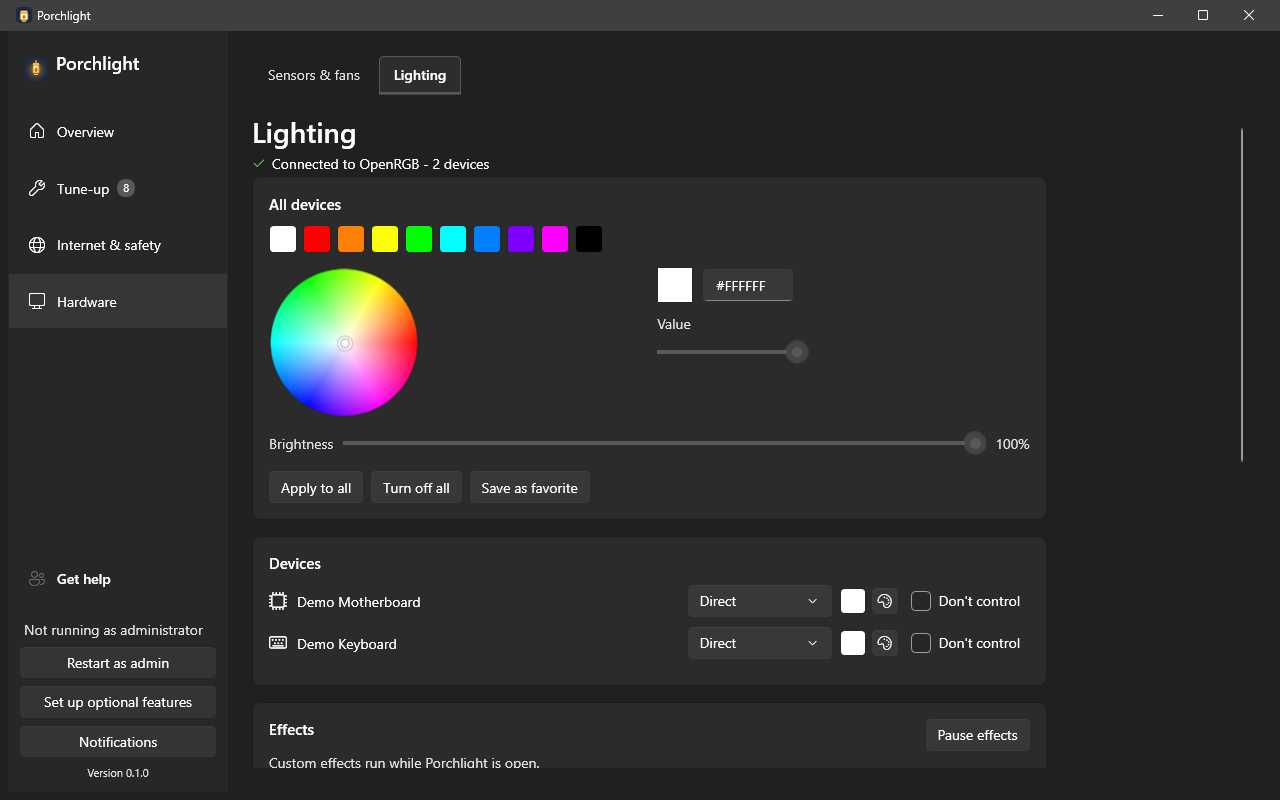
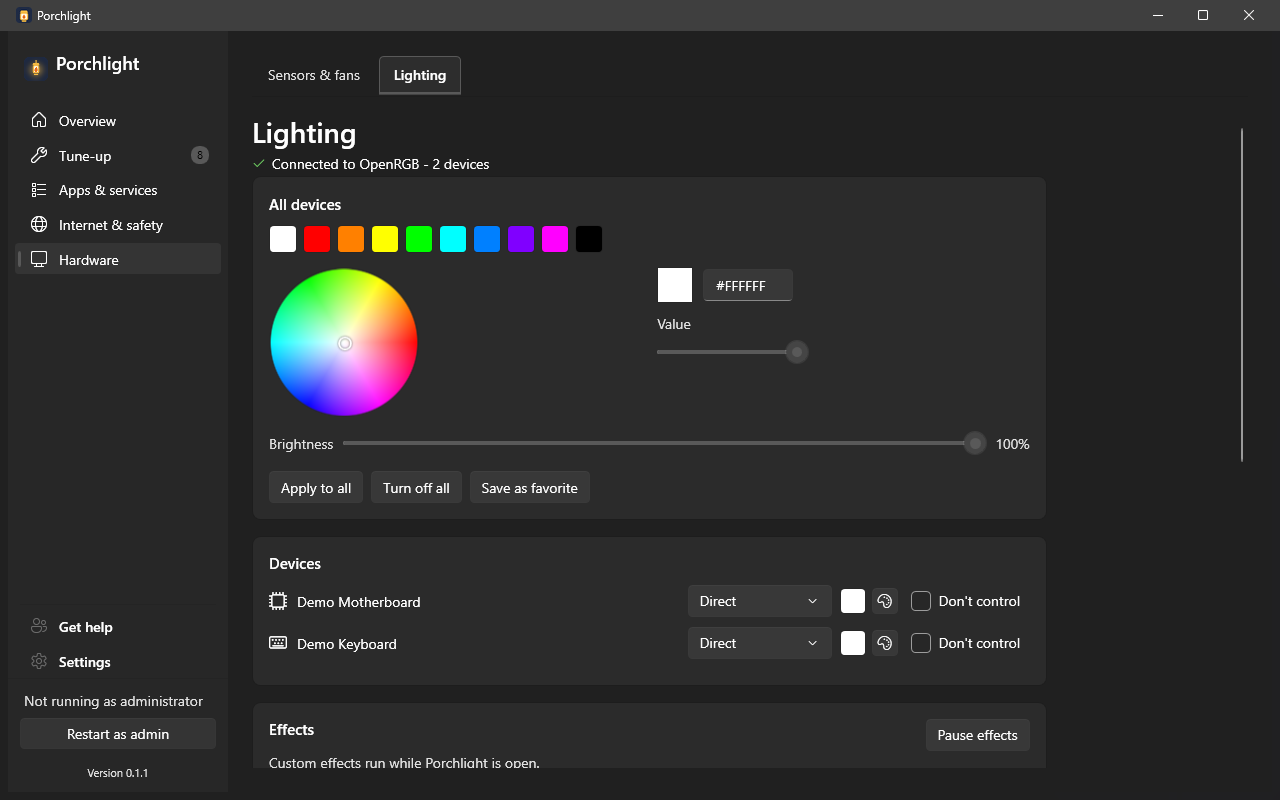
docs: guides, screenshots and changelog for Apps & services, update history and startup impact
New page guides for Get apps, Running apps and Services; Updates and
Startup apps guides cover history, impact and logon tasks. README tour,
FEATURES, CHANGELOG, ROADMAP and CONTRIBUTING updated. All screenshots
retaken in DEBUG demo mode with the new navigation rail.

diff --git a/docs/FEATURES.md b/docs/FEATURES.md
@@ -2,7 +2,7 @@
 
 A technical reference of what Porchlight does. For a friendlier walk through each page, see the [page guides](../README.md#pages).
 
-- App shell with a navigation rail of six entries - Overview, Tune-up (Updates, Startup apps, Free up space, Health check), Internet & safety (Internet, Browser add-ons),
+- App shell with a navigation rail of seven entries - Overview, Tune-up (Updates, Startup apps, Free up space, Health check), Apps & services (Get apps, Running apps, Services), Internet & safety (Internet, Browser add-ons),
   Hardware (Sensors & fans, Lighting) Get help (Get help, Web console) and Settings (General, Notifications, Optional features; both of the last two are pinned at the bottom) - with a tab row above the page for categories that hold more than one, following
   Windows light/dark theme, with the app version shown in the sidebar footer.
 - Browser add-ons page: read-only list of the add-ons installed in Edge, Chrome, Brave and Firefox
@@ -103,8 +103,13 @@ A technical reference of what Porchlight does. For a friendlier walk through eac
   "What is this?" line, and marks Windows/Microsoft items and Porchlight's own tools (AnyDesk,
   OpenRGB) as "Recommended to keep". Turn items off and on exactly like Task Manager (the
   `StartupApproved` value): nothing is ever deleted, so it is always reversible, and no startup
-  program is ever launched. Items for all users need administrator rights. No startup-impact rating
-  and no scheduled tasks are shown (see `specs/13-startup-apps.md`).
+  program is ever launched. Items for all users need administrator rights (see `specs/13-startup-apps.md`).
+  Each item shows a High / Medium / Low startup impact from Windows' own StartupInfo measurements
+  (Task Manager's thresholds: more than 1 s CPU or 3 MB disk is high, under 300 ms and 300 KB is low),
+  with "Sort by impact"; reading them needs administrator rights, otherwise items show "Not measured".
+  Scheduled tasks with a logon trigger (outside `\Microsoft\Windows\`, and not Porchlight's own) are
+  listed as "Scheduled task" items and turned off/on through the task's Enabled flag only
+  (see `specs/30-startup-impact-and-tasks.md`).
 - Health check: a plain-language page with five cards - disk health (per physical disk: Healthy /
   Warning - back up your files soon / Unknown, from Windows' storage and failure-prediction data);
   Windows repair (`sfc /scannow`, then `DISM /RestoreHealth` offered only if SFC couldn't fix everything;
@@ -141,3 +146,21 @@ A technical reference of what Porchlight does. For a friendlier walk through eac
   new key any time to lock out old links). Off by default; port 8765 unless you pick another. Use it
   on your home network, or through a VPN such as Tailscale when away - don't forward the port on
   your router. See `specs/21-web-console.md`.
+- Update history (Updates page): every update, reinstall and install run from Porchlight (including
+  Get apps) is logged with the version change, action, result and time, and shown grouped by day
+  behind a "History" button, with "Clear history". Stored in its own `update-history.json` (last 500
+  entries, atomic writes, a corrupt file is set aside instead of crashing). See `specs/26-update-history.md`.
+- Get apps: searches the `winget` community catalog (`winget search --source winget`), marks apps
+  that are already installed, and installs one app at a time with live progress and a plain-language
+  result; a curated "Popular apps" list shows while the search box is empty. Only ids from the
+  current results can be installed, and a running install is never cancelled. See `specs/27-get-apps.md`.
+- Running apps: live list of running programs grouped by executable (Apps / Background / Windows),
+  with CPU % and memory, refreshed every 2 s only while the page is shown, a filter and sorting.
+  "End task" asks first, refuses Windows and critical processes and Porchlight itself, and checks
+  each process's start time so a reused process id is never ended; "Open file location" selects the
+  file in Explorer. See `specs/28-running-apps.md`.
+- Services: lists services from other apps (Windows' own are hidden by default and read-only) with
+  plain descriptions, publisher, status and start type, and can start, stop, restart or change the
+  start type of third-party services when running as administrator. Driver services and Microsoft
+  services are never changed; stopping a service with running dependents is refused. See
+  `specs/29-windows-services.md`.

diff --git a/docs/pages/startup-apps.md b/docs/pages/startup-apps.md
@@ -2,23 +2,32 @@
 
 **Where to find it:** Tune-up > Startup apps.
 
-These are the programs that start by themselves when you sign in to Windows. Too many of them makes a PC slow to start. This page lists them in plain language and lets you turn each one off (or back on). Turning one off does not uninstall it, and you can turn it back on here at any time.
+These are the programs that start by themselves when you sign in to Windows. Too many of them makes a PC slow to start. This page lists them in plain language, shows how much each one slows the start down, and lets you turn each one off (or back on). Turning one off does not uninstall it, and you can turn it back on here at any time.
+
+![Startup apps page listing programs with their publisher, impact, a hint and On/Off status with Turn off buttons](../screenshots/startup-apps.png)
+
+*(Screenshot uses made-up demo data, not a real PC.)*
 
 ## What's on the page
 
 - **Introduction** - a reminder that nothing is removed.
-- **Summary line and Refresh** - how many programs start automatically, and a button to re-read the list.
+- **Summary line and Refresh** - how many programs start automatically, how many have a high impact, and a button to re-read the list.
+- **Sort by impact** - puts the programs that slow the start down most at the top.
+- **Impact note** - Windows keeps the startup measurements in a protected folder. When Porchlight isn't running as administrator, every program shows "Not measured" and one line offers **Restart as administrator** to see them.
 - **Administrator banner** - shown when Porchlight is not running as administrator. Some startup entries (those that apply to every user of the PC) can only be changed with admin rights; use **Restart as admin** in the left menu.
 - **Message / error line** - confirmation after you change something, or a note if a change did not work.
 - **Empty state** - "Nothing starts automatically. Your PC should start quickly." when the list is empty.
 
+Porchlight's own "start when I sign in" task is not listed here; use **Settings > General** for it.
+
 ## Each program in the list
 
-- **Name**, with the **publisher** and who it starts for: **Your account** (just you) or **All users** (everyone who signs in to this PC).
+- **Name**, with the **publisher** and where it comes from: **Your account** (just you), **All users** (everyone who signs in to this PC) or **Scheduled task** (a task in Windows' Task Scheduler that runs when you sign in).
+- **Impact** - **High**, **Medium** or **Low impact**, from Windows' own measurements of recent starts, using the same rules as Task Manager: high means more than 1 second of processor time or more than 3 MB read from or written to disk while the PC starts; low means under 0.3 seconds and under 300 KB. **Not measured** means Windows has no data for it (or Porchlight can't read it - see above).
 - **A hint** - a short plain-language note about what the program is.
 - **Recommended to keep** - a green tick on things Porchlight thinks you should leave on (for example security software).
 - **Status** - whether it currently starts with Windows.
-- **Turn off / Turn on button** - switches it. It is greyed out when it cannot be changed.
+- **Turn off / Turn on button** - switches it. It is greyed out when it cannot be changed. For a scheduled task, this turns the task off in Task Scheduler (the same as its Disable option); the task itself is kept.
 - **Needs administrator** - shown under the button when changing that entry requires admin rights.
 
 ---

diff --git a/docs/pages/get-apps.md b/docs/pages/get-apps.md
@@ -1,0 +1,42 @@
+# Get apps
+
+**Where to find it:** Apps & services > Get apps.
+
+Installing a program usually means a web search and a download page full of look-alike "Download"
+buttons - an easy way to end up with the wrong thing. Get apps installs programs straight from the
+official Windows package catalog (`winget`), so there is nothing to download by hand.
+
+![Get apps page with a search box and a list of popular apps, each with an Install button](../screenshots/get-apps.png)
+
+*(Screenshot uses made-up demo data, not a real PC.)*
+
+## What's on the page
+
+- **Search box and Search button** - type at least two letters of the program's name and press
+  **Enter** or **Search**. Searching takes a few seconds; a progress bar shows while it runs.
+- **Popular apps** - shown while the search box is empty: a short list of well-known programs
+  (Chrome, Firefox, VLC, 7-Zip, Zoom, Spotify, Adobe Acrobat Reader, Notepad++, Discord).
+- **Results** - up to 50 matches, each with its name, version and catalog ID.
+- **Message line** - how many apps were found, "No apps found..." with a tip, or a plain note if
+  `winget` isn't available on this PC.
+
+## Each app in the list
+
+- **Install** - installs the app. Only one app installs at a time; the other Install buttons wait
+  until it finishes. A line under the app shows what the installer is doing.
+- **Installed** - shown instead of the button when the app is already on the PC.
+- **Result** - "Installed", "Installed. Restart your PC to finish.", or a plain sentence saying
+  what went wrong and what to try next.
+
+Some installers show their own window or ask for administrator approval (a Windows prompt). If
+**Silent install** is ticked on the Updates page, installers run without their own window where
+they can. An install that has started is never stopped half way; if you try to close Porchlight
+during one, it warns you first.
+
+Every finished install also appears in the Updates page's [history](updates.md#update-history).
+
+Only the community `winget` catalog is searched - not the Microsoft Store.
+
+---
+
+[Back to the page list](../../README.md#pages)

diff --git a/README.md b/README.md
@@ -22,6 +22,14 @@ Screenshots use made-up demo data, not a real PC.
 
 ![Updates page listing programs with newer versions, with checkboxes and an Update selected button](docs/screenshots/updates.png)
 
+**Apps & services > Running apps** - what's slowing it down right now?
+
+![Running apps page listing programs grouped into Apps and Background with their CPU and memory use and an End task button](docs/screenshots/running-apps.png)
+
+**Apps & services > Get apps** - install a program safely, without hunting for a download page.
+
+![Get apps page with a search box and popular apps, each with an Install button](docs/screenshots/get-apps.png)
+
 **Hardware > Sensors & fans** - is it running hot?
 
 ![Hardware page with temperature, power and fan tiles above collapsed cards for each part](docs/screenshots/hardware.png)
@@ -38,10 +46,15 @@ Each link opens a guide that explains everything on that page.
 - [Dashboard](docs/pages/dashboard.md) - live stats, drive space, busiest programs.
 
 **Tune-up**
-- [Updates](docs/pages/updates.md) - see and install program updates.
-- [Startup apps](docs/pages/startup-apps.md) - choose what starts with Windows.
+- [Updates](docs/pages/updates.md) - see and install program updates, and look back at what was updated.
+- [Startup apps](docs/pages/startup-apps.md) - see what slows down sign-in and choose what starts with Windows.
 - [Free up space](docs/pages/free-up-space.md) - clear leftovers and find what fills a drive.
 - [Health check](docs/pages/health-check.md) - disk and battery health, Windows repair, recent problems.
+
+**Apps & services**
+- [Get apps](docs/pages/get-apps.md) - search for a program and install it from the official catalog.
+- [Running apps](docs/pages/running-apps.md) - what's running, how much it uses, and close a stuck program.
+- [Services](docs/pages/services.md) - background helpers that other programs installed; stop or turn off the ones you don't need.
 
 **Internet & safety**
 - [Internet](docs/pages/internet.md) - connection details, "fix my internet", speed test.

diff --git a/docs/pages/services.md b/docs/pages/services.md
@@ -1,0 +1,38 @@
+# Services
+
+**Where to find it:** Apps & services > Services.
+
+Many programs install a *service* - a helper that runs in the background all the time, for example
+to check for updates or sync files. This page explains each one in plain words and lets you stop or
+turn off the ones that came with other programs, without letting you break Windows.
+
+![Services page listing services from other apps with their publisher, description, status and start options, below an administrator banner](../screenshots/services.png)
+
+*(Screenshot uses made-up demo data, not a real PC.)*
+
+## What's on the page
+
+- **Summary line and Refresh** - how many services from other apps there are and how many are running.
+- **Filter** - search by name, publisher or description.
+- **Show Windows services** - also lists Windows' own services. They are shown for information only
+  and can't be changed here.
+- **Administrator banner** - changing a service needs administrator rights. When Porchlight isn't
+  running as administrator, the buttons are greyed out and the banner offers **Restart as administrator**.
+
+## Each service
+
+- **Name**, **publisher** and a one-line **description**.
+- **Status** - Running, Stopped, Starting... or Stopping..., shown with an icon and a word.
+- **Start option** - when the service starts:
+  - **Starts with Windows** - every time the PC starts.
+  - **Starts when needed** - only when a program asks for it.
+  - **Turned off** - never.
+- **Start**, **Stop** and **Restart** buttons.
+
+Stopping a service or turning it off asks first, because the program that installed it may not work
+properly until you turn it back on. A service that other services depend on can't be stopped here;
+the page names the services that need it.
+
+---
+
+[Back to the page list](../../README.md#pages)

diff --git a/docs/pages/running-apps.md b/docs/pages/running-apps.md
@@ -1,0 +1,40 @@
+# Running apps
+
+**Where to find it:** Apps & services > Running apps.
+
+"Why is my PC slow?" This page shows what is running right now and how much of the PC each program
+uses, and lets you close a program that has stopped responding.
+
+![Running apps page listing programs grouped into Apps and Background, each with CPU and memory use and End task and Open file location buttons](../screenshots/running-apps.png)
+
+*(Screenshot uses made-up demo data, not a real PC.)*
+
+## What's on the page
+
+- **Summary line** - total CPU and memory in use, e.g. "CPU 23% · Memory 9.4 GB of 16 GB in use".
+- **Filter** - type part of a program's name to narrow the list.
+- **Sort by** - CPU (the default), memory or name.
+- The list refreshes every 2 seconds while you are on this page, and stops when you leave it.
+
+## The list
+
+Programs are grouped the way Task Manager does: a program with many parts (a web browser often has
+a dozen) is one row, with the number of parts in brackets and their CPU and memory added together.
+The rows are in three sections:
+
+- **Apps** - programs with a window open.
+- **Background** - programs running without a window (sync tools, updaters, helpers).
+- **Windows** - parts of Windows itself. This section starts collapsed.
+
+Each row has:
+
+- **CPU** and **memory** use.
+- **Open file location** - opens File Explorer with the program's file selected.
+- **End task** - closes the program after asking first ("Unsaved work in it will be lost."). It is
+  greyed out for Windows' own programs and for Porchlight itself, because closing those can make
+  the PC unstable. Some programs need Porchlight to run as administrator before they can be closed;
+  the page says so when that happens.
+
+---
+
+[Back to the page list](../../README.md#pages)

diff --git a/CONTRIBUTING.md b/CONTRIBUTING.md
@@ -81,8 +81,12 @@ made-up data - everything else in the app runs normally:
   control anything real (`src/Porchlight.Core/Hardware/Demo/DemoHardwareService.cs`,
   `HardwareServiceCollectionExtensions.AddHardwareCore`).
 - Lighting: `ILightingService`, reporting a fixed, made-up device list instead of connecting to a
-  real OpenRGB SDK server (`src/Porchlight.Core/Lighting/Demo/DemoLightingService.cs`,
-  `LightingServiceCollectionExtensions.AddLightingCore`).
+  real OpenRGB SDK server, and `ILightingConflictDetector`, reporting no conflicting lighting software
+  (`src/Porchlight.Core/Lighting/Demo/`, `LightingServiceCollectionExtensions.AddLightingCore`).
+- Update history: a made-up week of history (`src/Porchlight.Core/Winget/Demo/FakeUpdateHistoryStore.cs`).
+- Startup apps, Running apps and Services: made-up lists that never read or change the real startup
+  items, processes or services (`src/Porchlight.Core/Startup/Demo/`, `src/Porchlight.Core/RunningApps/Demo/`,
+  `src/Porchlight.Core/WindowsServices/Demo/`).
 
 The check and every fake above only exist in a DEBUG build (`#if DEBUG`); a Release build - what CI
 compiles and what a release ships - is unaffected and does not contain this code at all. Unset the
@@ -106,6 +110,9 @@ animations, fan-control marker). Every per-user path comes from one place,
 $env:PORCHLIGHT_DATA_DIR = "$env:TEMP\porchlight-check"
 dotnet run -c Debug --project src/Porchlight.App
 ```
+
+A run with either override also uses its own single-instance lock, so it starts alongside a real,
+running Porchlight instead of just bringing that one to the front.
 
 While either override is active, the one-time `PCManager` -> `Porchlight` folder migration is
 skipped entirely. A Release build ignores both variables. There is no need to back up or restore

diff --git a/CHANGELOG.md b/CHANGELOG.md
@@ -6,6 +6,28 @@ The format is based on [Keep a Changelog](https://keepachangelog.com/en/1.1.0/).
 
 ## [Unreleased]
 
+### Added
+
+- New **Apps & services** section in the left menu with three pages:
+  - **Get apps** - search the official `winget` catalog and install a program in one click, with a
+    list of popular apps (`docs/specs/27-get-apps.md`).
+  - **Running apps** - what's running right now with CPU and memory use, grouped like Task Manager,
+    with a safe "End task" and "Open file location" (`docs/specs/28-running-apps.md`).
+  - **Services** - background services that other programs installed, explained in plain words, with
+    start/stop and start-type changes for non-Windows services (`docs/specs/29-windows-services.md`).
+- **Update history** on the Updates page: every update, reinstall and install run from Porchlight,
+  grouped by day (`docs/specs/26-update-history.md`).
+- **Startup apps** shows a High/Medium/Low startup impact for each item from Windows' own
+  measurements, can sort by it, and also lists scheduled tasks that run at sign-in, which can be
+  turned off and on (`docs/specs/30-startup-impact-and-tasks.md`).
+
+### Changed
+
+- CI is faster: the installer build runs alongside build-and-test instead of after it, a new push to a
+  pull request cancels its older run, and docs-only pull requests skip the Windows build.
+- DEBUG demo runs (`PORCHLIGHT_DEMO_DATA=1`) can start while a real Porchlight is running, and no
+  longer show which lighting software is really running on the PC.
+
 ## [0.1.1] - 2026-10-02
 
 ### Added

diff --git a/docs/pages/updates.md b/docs/pages/updates.md
@@ -41,6 +41,22 @@ When a row is selected, a details strip appears with its status explanation and 
 
 Helps when you get a new computer. **Save my app list...** writes the list of installed programs to a file; on the new PC, **Install apps from a list...** reads that file, shows you what will be installed, and installs it once you click **Install these apps**.
 
+## Update history
+
+The **History** button at the top right switches the page to a list of every update, reinstall and
+install Porchlight has run - including apps installed from [Get apps](get-apps.md) - grouped by day
+("Today", "Yesterday", then the date), newest first.
+
+![Update history grouped by day, each row with the app, the version change, what was done, the result and the time](../screenshots/update-history.png)
+
+Each row shows the app, the version change (for example "1.2.0 → 1.3.1"), what was done (Updated,
+Reinstalled or Installed), the result (**Done** or **Didn't work**, with the reason underneath) and
+the time. **Clear history** empties the list after asking first; **Back to updates** returns to the
+list of available updates.
+
+Only changes made from Porchlight are listed - not updates that Windows or a program installed by
+itself. The history is kept on this PC only, up to the last 500 entries.
+
 ## Log (collapsed section)
 
 The detailed output from the update tool, for troubleshooting or to show a helper. **Open log folder** opens the folder where logs are kept; **Clear** empties the on-screen log.

diff --git a/docs/ROADMAP.md b/docs/ROADMAP.md
@@ -2,10 +2,6 @@
 
 Ideas that are not built yet. Nothing here is a promise.
 
-- Update history for the Updates page
-- Install new apps from a search box
-- Process list with CPU/RAM, kill or open file location
-- Windows services viewer
-- Startup impact ratings and logon scheduled tasks for the Startup apps page
-
-Specced and in progress: specs 26-30 in `docs/specs/` cover all five items above.
+Nothing is planned right now. The last batch of ideas (update history, installing apps from a
+search box, a running-apps list, a services viewer, and startup impact plus logon tasks) shipped as
+specs 26-30 in `docs/specs/`.
